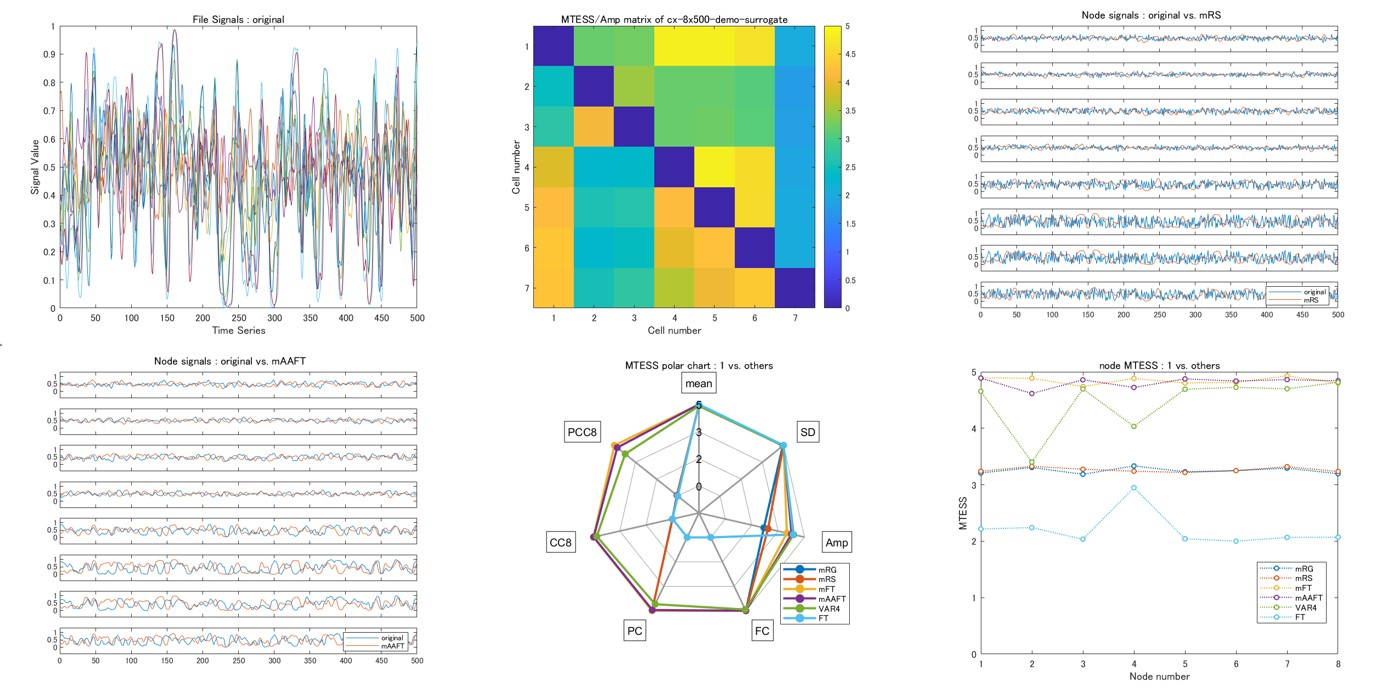
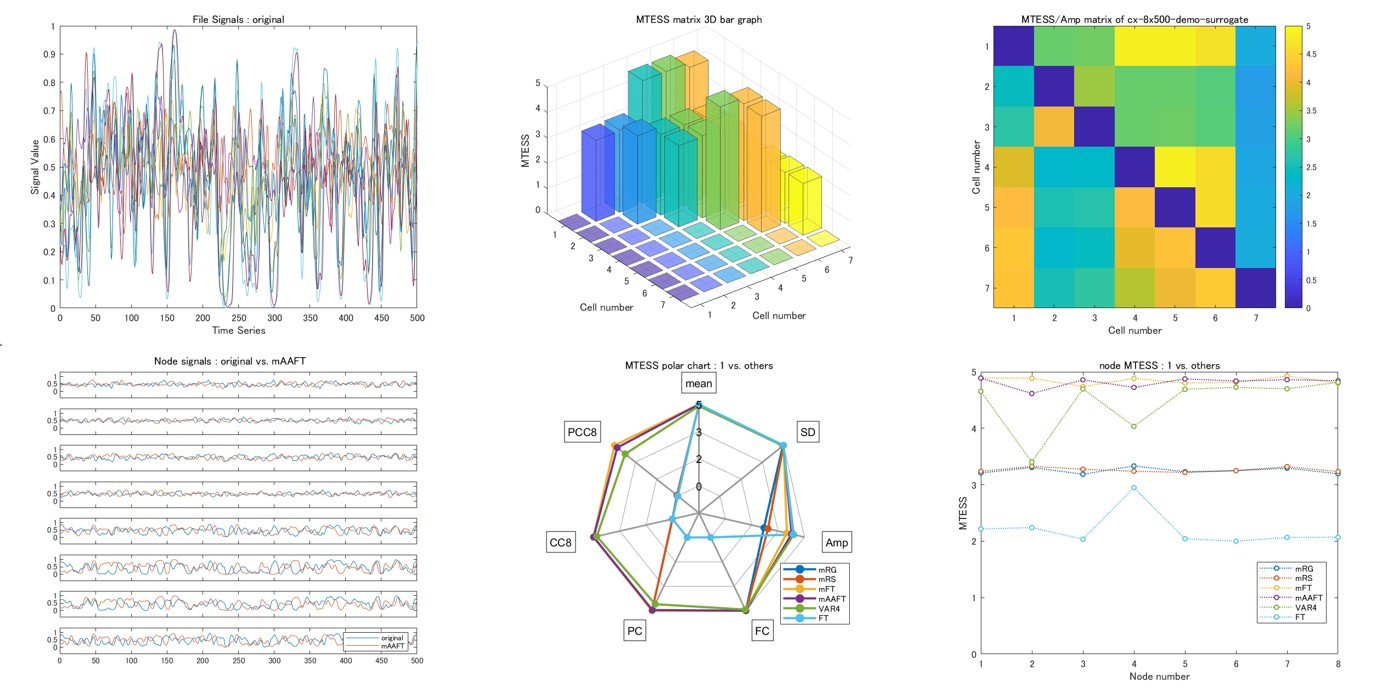
fixed README.

Changed region(s): [[0.6845, 0.0, 0.9957, 0.4855], [0.3734, 0.0, 0.6223, 0.4855]]

diff --git a/lib/calcMtess.m b/lib/calcMtess.m
@@ -1,8 +1,8 @@
 %%
 % Caluclate MTESS, MTESS statistical properties, Node MTESS and Node MTESS statistical properties
 % returns MTESS matrix (cell number x cell number)(MTS), MTESS statistical property matrix (cell number x cell number x 7)(MTSp), 
-%   Node MTESS (cell number x cell number x node)(nMTS), Node MTESS and Node MTESS statistical properties (cell number x cell number x node x 7)(nMTSp).
-%   Data in the middle of calculation, such as means (Means), standard deviation (Stds), DFT amplitude (Amps), correlation matrix (FCs),
+%   Node MTESS (cell number x cell number x node)(nMTS) and Node MTESS statistical properties (cell number x cell number x node x 7)(nMTSp).
+%   Data in the middle of calculation, such as mean (Means), standard deviation (Stds), DFT amplitude (Amps), correlation matrix (FCs),
 %   partial correlation matrix (PCs), cross-correlation matrix (CCs) and partial cross-correlation matrix (PCCs).
 % input:
 %  CX               cells of multivariate time series matrix {(node x time series)} x cell number (time series length can be different)

diff --git a/mtess.m b/mtess.m
@@ -255,6 +255,11 @@ function processInputFiles(handles)
 
     % show all matrix
     if handles.showMat > 0
+        figure; h=bar3(MTS); title('MTESS matrix 3D bar graph');
+        for i=1:length(h) h(i).FaceAlpha=0.6; h(i).EdgeAlpha=0.6; end
+        xlabel('Cell number');
+        ylabel('Cell number');
+        zlabel('MTESS'); zticks([0 1 2 3 4 5]);
         plotMtessAllMatrix(MTS, MTSp, savename);
     end
     
@@ -293,7 +298,9 @@ end
 %
 function saveResultFiles(handles, MTS, MTSp, nMTS, nMTSp, outname)
     if handles.format == 1
-        save([handles.outpath '/' outname '_mtess.mat'], 'MTS', 'MTSp', 'nMTS', 'nMTSp');
+        outfname = [handles.outpath '/' outname '_mtess.mat'];
+        save(outfname, 'MTS', 'MTSp', 'nMTS', 'nMTSp');
+        disp(['output mat file : ' outfname]);
     else
         % output result MTESS matrix csv file
         outputCsvFile(MTS, [handles.outpath '/' outname '_mtess.csv']);
